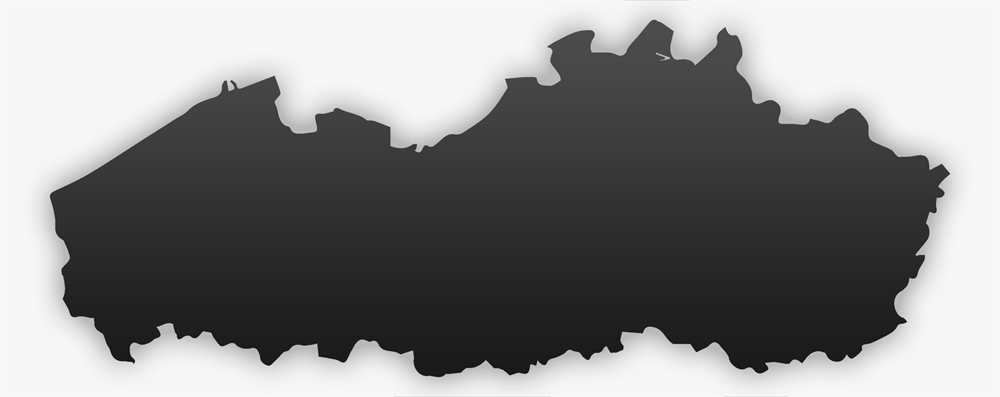
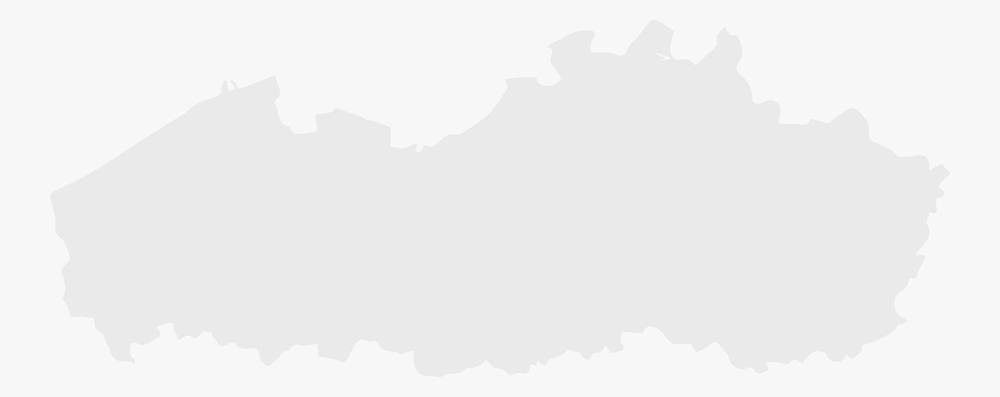
Uniform flat design shared with website

diff --git a/PeryiteUI/popgenvisualization.cpp b/PeryiteUI/popgenvisualization.cpp
@@ -15,7 +15,7 @@ PopGenVisualization::PopGenVisualization(QWidget *parent) :
     ui->setupUi(this);
 
     // Background color
-    setStyleSheet("QWidget { background-color: #626a77; }");
+    setStyleSheet("QWidget { background-color: #eaeaea; } Q");
 
     // Load background image into image
     // QString filename = QDir(QCoreApplication::applicationDirPath()).cleanPath("../vlaanderen.png");
@@ -125,16 +125,13 @@ void PopGenVisualization::draw() {
 }
 
 void PopGenVisualization::drawBar(QPixmap *pm, QPointF point, float width, float height, bool selected) {
+    image->fill(QColor(247, 247, 247));
+
     // QPainter
     QPainter painter(pm);
     painter.setRenderHint(QPainter::Antialiasing);
-
-    // Gradient Gradient
-    QLinearGradient gradient(QPointF(point.x(), 50), QPointF(point.x(), point.y()));
-    gradient.setColorAt(0.0, selected ? QColor(130, 150, 220) : QColor(130, 140, 150));
-    gradient.setColorAt(1.0, selected ? QColor(90, 110, 180) : QColor(90, 100, 110));
-    painter.setBrush(gradient);
-    painter.setPen(QColor(0, 0, 0, 0));
+    painter.setBrush(selected ? QColor("#3c6382") : QColor("#78e08f"));
+    painter.setPen(QColor(0, 0, 0, 15));
 
     // Draw
     painter.drawRect(point.x(), point.y() - height, width, height);

diff --git a/PeryiteUI/geogenvisualization.cpp b/PeryiteUI/geogenvisualization.cpp
@@ -16,7 +16,7 @@ GeoGenVisualization::GeoGenVisualization(QWidget *parent) :
     ui->setupUi(this);
 
     // Background color
-    setStyleSheet("QWidget { background-color: #626a77; }");
+    setStyleSheet("QWidget { background-color: #eaeaea; }");
 
     // Load background image into image
     QString filename = QDir(QCoreApplication::applicationDirPath()).cleanPath("../vlaanderen.png");
@@ -90,12 +90,7 @@ void GeoGenVisualization::drawCircle(QPixmap *pm, QPointF point, float radius, b
     // QPainter
     QPainter painter(pm);
     painter.setRenderHint(QPainter::Antialiasing);
-
-    // Gradient Gradient
-    QLinearGradient gradient(QPointF(point.x(), point.y() - radius), QPointF(point.x(), point.y() + radius));
-    gradient.setColorAt(0.0, selected ? QColor(130, 150, 220) : QColor(130, 140, 150));
-    gradient.setColorAt(1.0, selected ? QColor(90, 110, 180) : QColor(90, 100, 110));
-    painter.setBrush(gradient);
+    painter.setBrush(selected ? QColor("#3c6382") : QColor("#78e08f"));
     painter.setPen(QColor(0, 0, 0, 0));
 
     // Draw

diff --git a/PeryiteUI/mainwindow.cpp b/PeryiteUI/mainwindow.cpp
@@ -17,11 +17,6 @@ MainWindow::MainWindow(QWidget *parent) :
     data(new PeryiteUIData())
 {
     ui->setupUi(this);
-
-    // Background color
-    setStyleSheet("QMainWindow { background-color: #f7f7f7; }");
-    ui->GeoGenGroup->setStyleSheet("QLabel { background-color: #626a77; color: #ffffff; border-radius: 2px; border: 1px solid black; }");
-    ui->PopGenGroup->setStyleSheet("QLabel { background-color: #626a77; color: #ffffff; border-radius: 2px; border: 1px solid black; }");
 }
 
 MainWindow::~MainWindow()
